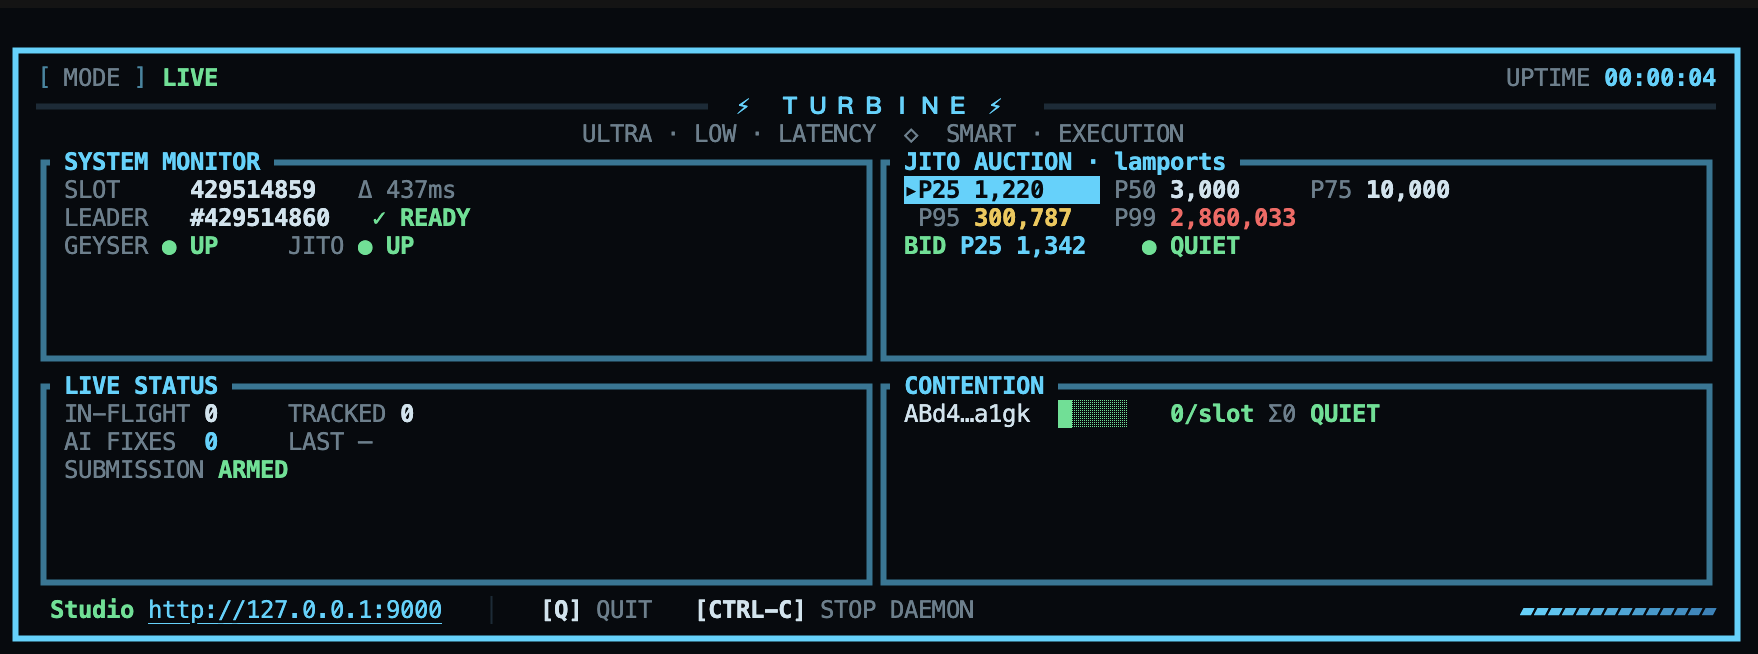
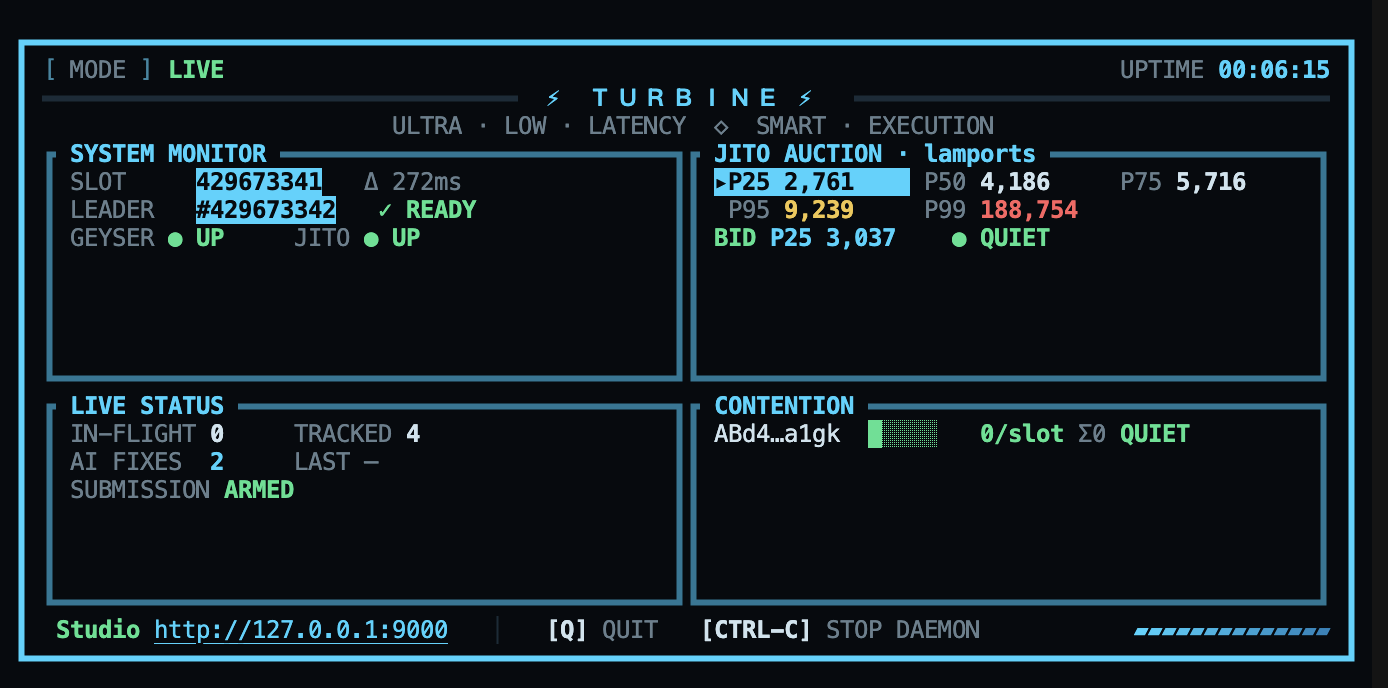
updated ReadME.md file. corrected unrendering math formula

Changed region(s): [[0.0, 0.0306, 0.9914, 1.0]]

diff --git a/README.md b/README.md
@@ -69,7 +69,7 @@ Five **mainnet** bundles from live `transactions.jsonl` runs (`happy-path-single
 
 **Takeaway:** Sub-400 ms submit→processed on mainnet with **~0.00001–0.000018 SOL** tips — gated one slot before the Jito leader (`gate_dist = 1` on every row). 
 
-Note: This is just a sneak-peak, a larger table showing more reports will be seen in a later section.
+Note: This is just a sneak-peak, a larger table showing more reports happy, failure, and AI retry paths will be seen in a later section.
 
 ---
 
@@ -77,7 +77,11 @@ Note: This is just a sneak-peak, a larger table showing more reports will be see
 
 ![TURBINE architecture diagram](assets/TURBINE%20ARCH%20DIAGRAM%20(1).png)
 
-### Overview
+**[View The Complete Architectural Document Breakdown Here →](https://docs.google.com/presentation/d/1WPVPPuMAiaqzYktap83oNc2iMOPpyrg0m-BdWr4AoX4/edit?usp=sharing)** (Google Slides)
+
+### Stack Overview
+
+We built 9 rust crates for TURBINE as follows:
 
 | Crate | Role |
 |-------|------|
@@ -88,8 +92,10 @@ Note: This is just a sneak-peak, a larger table showing more reports will be see
 | `turbine-ai` | Cold-path analyst, governor, normalization |
 | `turbine-ipc` | UDS control plane (bincode frames) |
 | `turbine-tui` / `turbine-web` | Lossy telemetry surfaces |
-| `turbine-cli` | `turbine` binary — start, run, stop, status |
+| `turbine-cli` | `turbine` binary — start, run, stop, status. example: turbine start, turbine stop |
 | `turbine-core` | Config, types, EMA math, `TelemetryEvent` |
+
+### Architecture Overview
 
 ```mermaid
 flowchart LR
@@ -99,9 +105,20 @@ flowchart LR
     HS -.->|lossy broadcast| UI[TUI + Web]
 ```
 
+The mermaid diagram above shows the most basic architectural diagram for TURBINE. At a high level, TURBINE is split into 6 different layers (as seen above) operateling together and concurently. We will briefly go over each of them below:
+
+Note: the explanations below is just a brief walkthrough of the layers. For complete teardown of the architecture, please visit the **[Google Slides →](https://docs.google.com/presentation/d/1WPVPPuMAiaqzYktap83oNc2iMOPpyrg0m-BdWr4AoX4/edit?usp=sharing)**
+
 ---
 
 ### 1 · Ingestion (`turbine-ingest`)
+
+```mermaid
+flowchart TB
+    GEY[Geyser gRPC] -->|mpsc 8192| DPU
+    TIP[Jito tip WS/REST] -->|mpsc 256| DPU
+    RPC[RPC blockhash] -->|watch| DPU
+```
 
 **Sources:** Yellowstone/Geyser (TLS gRPC), Jito `tip_stream` WebSocket + `tip_floor` REST, Solana JSON-RPC (`getLatestBlockhash`, boot-only tip accounts).
 
@@ -121,13 +138,6 @@ flowchart LR
 - **HTTP/2 adaptive window + ping echo** — healthy gRPC flow on the wire.
 
 Tips → `mpsc(256)`. Blockhash → `watch` (latest only).
-
-```mermaid
-flowchart TB
-    GEY[Geyser gRPC] -->|mpsc 8192| DPU
-    TIP[Jito tip WS/REST] -->|mpsc 256| DPU
-    RPC[RPC blockhash] -->|watch| DPU
-```
 
 ---
 
@@ -150,9 +160,10 @@ Single **`tokio::select!`** consumer — one serial writer to hot state, no lock
 
 Time-decayed EMA (irregular event times):
 
-$$ \text{decay} = e^{-\frac{\ln(2) \cdot \Delta t}{\text{half\_life}}} $$
+$$ \text{decay} = e^{-\frac{\ln(2) \cdot \Delta t}{\mathit{half\_life}}} $$
 
 $$ \alpha = 1 - \text{decay} $$
+
 
 $$ \text{EMA}_t = \alpha \cdot x_t + \text{decay} \cdot \text{EMA}_{t-1} $$
 
@@ -246,9 +257,13 @@ flowchart LR
 | **Web Studio** | Same bus + 400 ms `HotState` history snapshot over WebSocket | No — lossy; `Lagged` drops frames |
 | **IPC** | UDS bincode → daemon → engine | No — separate `mpsc(64)` |
 
+#### TURBINE Terminal UI
+
 ![TURBINE TUI](assets/TUI.png)
 
-![TURBINE Web Studio](assets/WEB-UI.png)
+#### TURBINE Web Studio at http://127.0.0.1:9000
+
+![TURBINE Web Studio](assets/turbine-web.png)
 
 ---
 